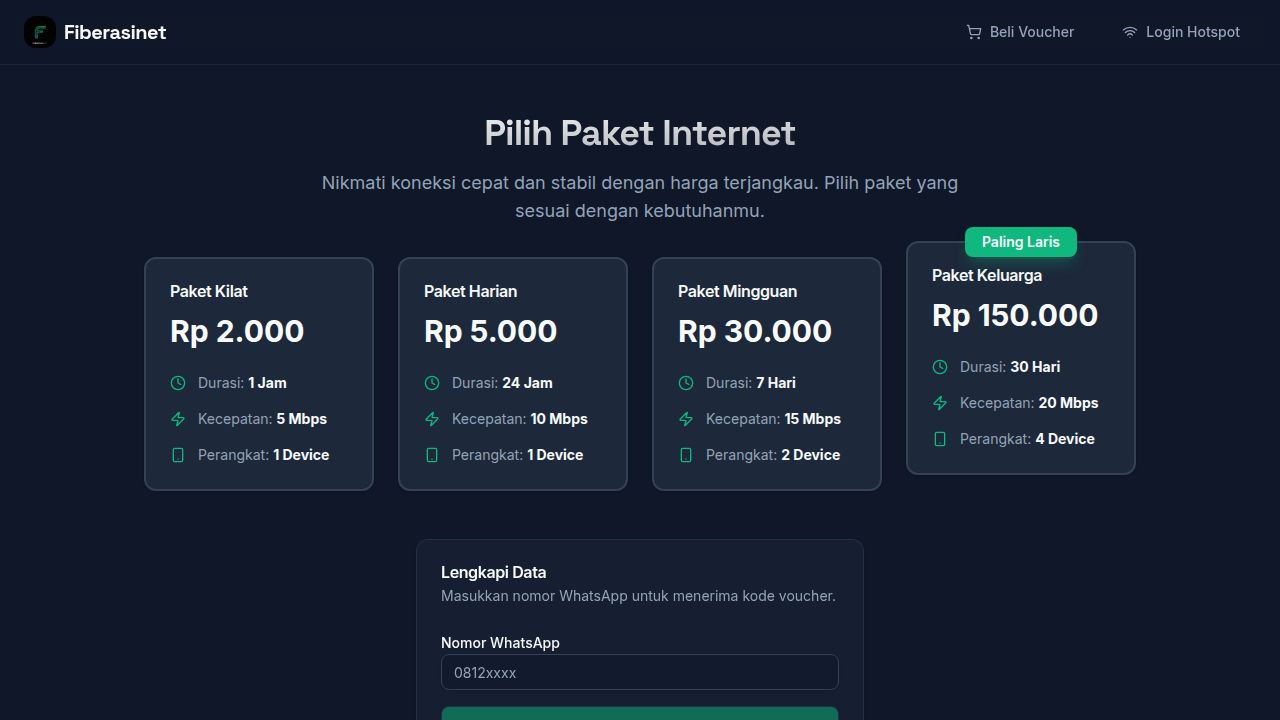
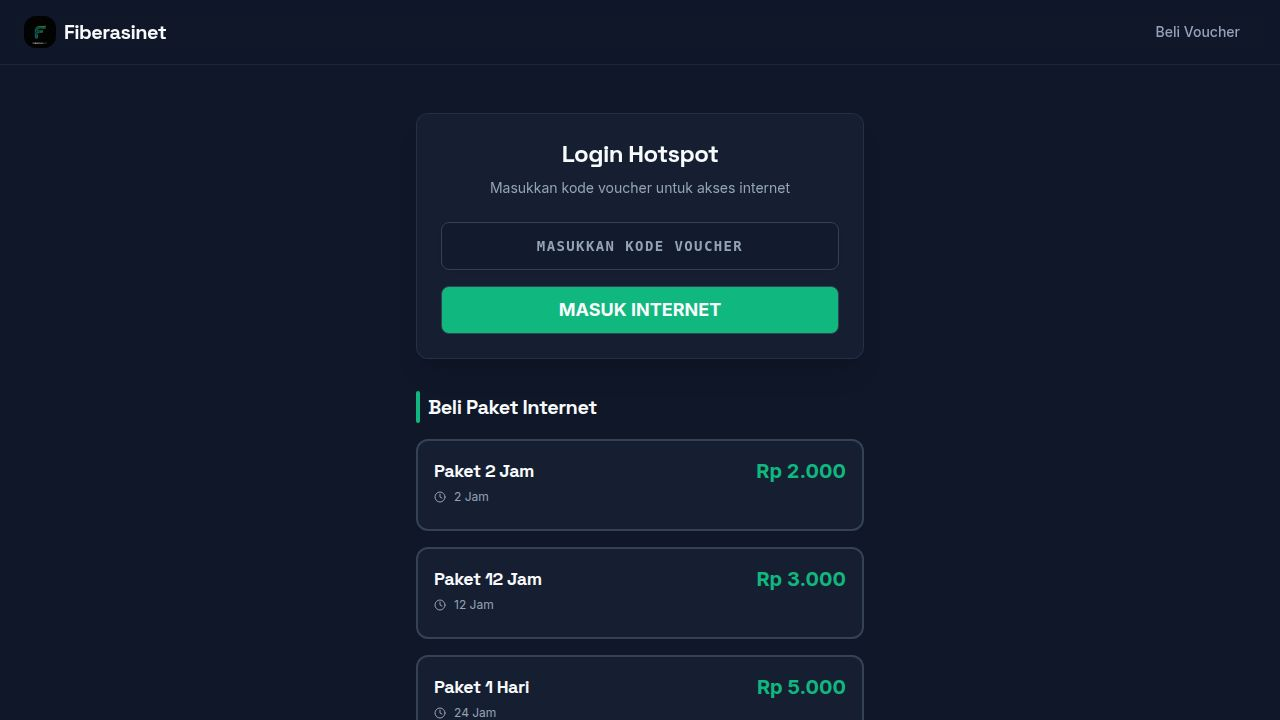
Open WhatsApp link in a new tab to prevent errors
Update the WhatsApp button's onClick handler in `client/src/pages/portal.tsx` to use `window.open` with target `_blank`, ensuring the link opens in a new tab and resolves the reported error.

Replit-Commit-Author: Agent
Replit-Commit-Session-Id: 8bde9722-579e-4094-b4fc-cda4500d8e30
Replit-Commit-Checkpoint-Type: full_checkpoint
Replit-Commit-Event-Id: 4d0af4b8-6adf-4fd1-8d77-3c3c7b84efac
Replit-Commit-Screenshot-Url: https://storage.googleapis.com/screenshot-production-us-central1/6ed4ebd6-4c8d-4be3-b820-0c47d5477ecf/8bde9722-579e-4094-b4fc-cda4500d8e30/3GLAwqa
Replit-Helium-Checkpoint-Created: true

diff --git a/client/src/pages/portal.tsx b/client/src/pages/portal.tsx
@@ -127,7 +127,7 @@ export default function Portal() {
                           className="w-full bg-[#25D366] hover:bg-[#128C7E] text-white font-bold h-10 mt-2"
                           onClick={(e) => {
                             e.stopPropagation();
-                            window.location.href = 'https://wa.me/6281234567890?text=Halo%20Admin,%20saya%20berminat%20pasang%20WiFi%20rumahan.%20Mohon%20info%20lebih%20lanjut.';
+                            window.open('https://wa.me/6281234567890?text=Halo%20Admin,%20saya%20berminat%20pasang%20WiFi%20rumahan.%20Mohon%20info%20lebih%20lanjut.', '_blank');
                           }}
                         >
                           <Smartphone className="w-4 h-4 mr-2" />
